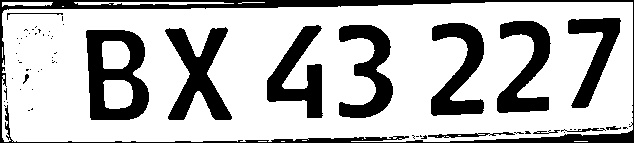
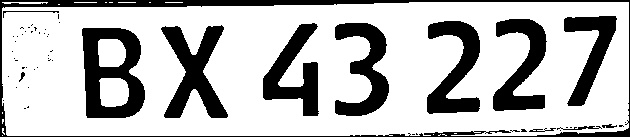
change in contours

diff --git a/OCR_Test/plateDetection.py b/OCR_Test/plateDetection.py
@@ -2,6 +2,8 @@ import math
 import os
 from collections import deque
 
+import imutils
+
 TS = False
 TM = False
 KNN = True
@@ -23,16 +25,19 @@ strFinalString = ""  # declare final string, this will have the final number seq
 # Load original image
 imgOriginal = cv2.imread('bilnummerplade10.jpg')
 
+#Tesseract setup
 class Tesseract:
     def __init__(self, img):
         self.img = img
 
     def getText(self):
+        #Local Tesseract path
         pt.pytesseract.tesseract_cmd = r'C:\Program Files\Tesseract-OCR\tesseract.exe'
+        #Which characters to look for
         out_below = pt.image_to_string(self.img, config='-c tessedit_char_whitelist=0123456789ABCDEFGHIJKLMNOPQRSTUVWXYZ --psm 10')
         print(out_below)
 
-#Empty arrays for the grayscale and binary version of the image
+#Empty arrays for the grayscale and binary versions of the image
 grayImg = np.zeros((imgOriginal.shape[0],imgOriginal.shape[1]))
 binaryImg = np.zeros((imgOriginal.shape[0],imgOriginal.shape[1]))
 binaryImg2 = np.zeros((imgOriginal.shape[0],imgOriginal.shape[1]))
@@ -71,10 +76,12 @@ def grayScale(img):
             if px >= 70:
                 binaryImg[i, j] = 255
                 binaryImg2[i, j] = 0
+            #Convert to inverted binary
             else:
                 binaryImg[i, j] = 0
                 binaryImg2[i, j] = 255
 
+    #Save the images
     cv2.imwrite('grayImg.jpg', grayImg)
     cv2.imwrite('binaryImg2.jpg', binaryImg2)
     cv2.imwrite('binaryImg.jpg',binaryImg)
@@ -123,10 +130,12 @@ def sobel(img):
     GxOut = convolute(img, Gx)
     GyOut = convolute(img, Gy)
 
+    #Calculate edge slope for each pixel
     for row in range(imgRow):
         for col in range(imgCol):
             angle[row, col] = np.arctan2(GyOut[row, col], GxOut[row, col])
 
+    #Calculate edge magnitude
     G = np.sqrt(GxOut**2 + GyOut**2)
 
     #plt.imshow(G, cmap='gray')
@@ -231,11 +240,16 @@ def trackEdge(img):
 def detectPlate(img):
     print('Detecting license plate')
     img = img.astype(np.uint8)
-    _, contours, _ = cv2.findContours(img, cv2.RETR_TREE, cv2.CHAIN_APPROX_SIMPLE)
+    contours = cv2.findContours(img, cv2.RETR_TREE, cv2.CHAIN_APPROX_SIMPLE)
+    contours = imutils.grab_contours(contours)
+    contours = sorted(contours, key=cv2.contourArea, reverse=True)[:10]
 
-    areas = [cv2.contourArea(c) for c in contours]
-    max_index = np.argmax(areas)
-    cnt = contours[max_index]
+    for c in contours:
+        perimeter = cv2.arcLength(c, True)
+        approx = cv2.approxPolyDP(c, 0.01 * perimeter, True)
+        if len(approx) == 4:
+            cnt = approx
+            break
 
     x, y, w, h = cv2.boundingRect(cnt)
     cv2.rectangle(binaryImg, (x, y), (x + w, y + h), (0, 255, 0), 2)
@@ -254,9 +268,9 @@ def detectPlate(img):
     pl = cv2.imread('plate.jpg')
     print('Completed')
 
-    #plt.imshow(nummerpladeFrame, cmap='gray')
-    #plt.title("Plate")
-    #plt.show()
+    plt.imshow(nummerpladeFrame, cmap='gray')
+    plt.title("Plate")
+    plt.show()
 
     if TS:
         ts = Tesseract(pl)
@@ -408,8 +422,6 @@ def templateMatch(imgIn):
         cv2.imwrite('tem.png',tem)
         tem = cv2.imread('tem.png',0)
         tem = cv2.resize(tem, (35,45), interpolation=cv2.INTER_AREA)
-        #cv2.imshow('g',resizedP)
-        #cv2.waitKey(0)
         res = cv2.matchTemplate(resizedP, tem, cv2.TM_CCOEFF_NORMED)
         threshold = 0.7
         loc = np.where(res >= threshold)
